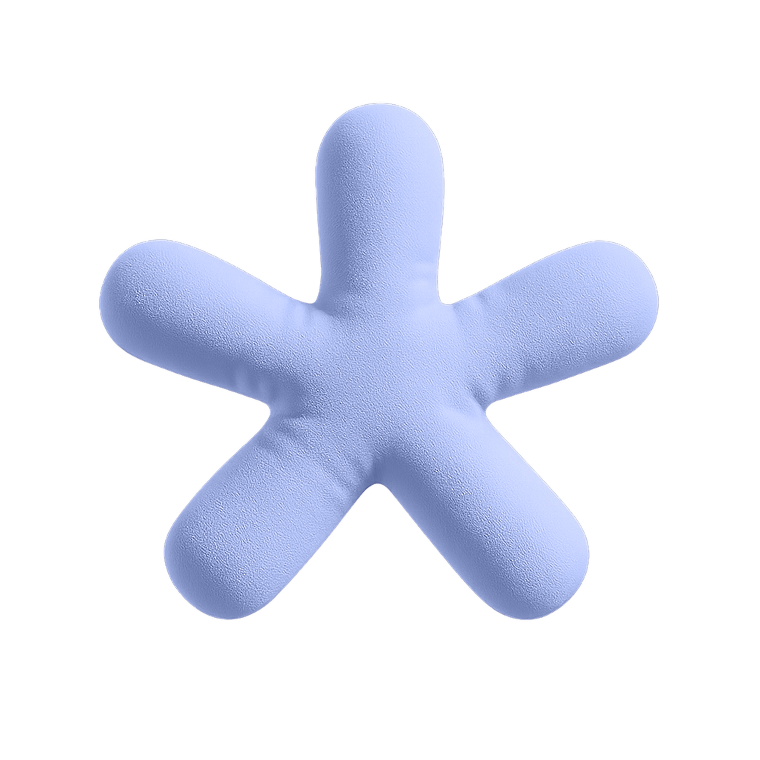
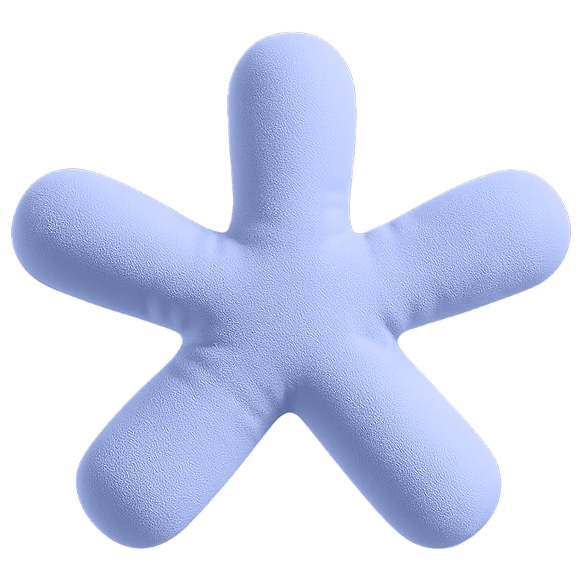
добавлена анимация на главной

Changed region(s): [[0.0, 0.031, 0.9931, 0.9621]]

diff --git a/src/components/section/Services.tsx b/src/components/section/Services.tsx
@@ -45,7 +45,7 @@ export default function Services() {
             whileInView="visible"
             viewport={viewportOptions}
             id="services"
-            className=" relative z-10 mt-[8.5vw]"
+            className=" relative z-10 mt-[8.5vw] "
         >
             <motion.h2 variants={slideInFromLeft(0)}>Дополнительные услуги</motion.h2>
             <div className=" flex flex-col gap-5">
@@ -92,15 +92,15 @@ export default function Services() {
                             variants={slideInFromRight(0.4)}
                             animate={floatAnimation(40)}
                             whileHover={{ scale: 1.1, transition: { duration: 0.3 } }}
-                            className=" absolute -top-[10%] left-[10%] w-65 h-65 transform -rotate-28"
+                            className=" absolute -top-[10%] left-[10%] w-52 h-52 transform -rotate-28"
                         >
                             <Image src="/img/cross.png" fill alt="Крестик маленький" />
                         </motion.div>
                         <motion.div
                             variants={slideInFromRight(0.8)}
-                            animate={spinAnimation(100)}
+                            animate={floatAnimation(100)}
                             whileHover={{ scale: 1.1, transition: { duration: 0.3 } }}
-                            className=" absolute -bottom-[20%] right-0 w-95 h-95 transform"
+                            className=" absolute -bottom-[20%] right-[10%] w-80 h-80 transform"
                         >
                             <Image src="/img/cross.png" fill alt="Крестик" />
                         </motion.div>

diff --git a/src/components/section/Question.tsx b/src/components/section/Question.tsx
@@ -109,9 +109,9 @@ export default function Question() {
                             variants={slideInFromRight(0.4)}
                             animate={floatAnimation(40)}
                             whileHover={{ scale: 1.1, transition: { duration: 0.3 } }}
-                            className=" absolute -top-[60%] right-0 w-150 h-150 transform pointer-events-none"
+                            className=" absolute -top-[60%] right-[10%] w-100 h-100 transform pointer-events-none"
                         >
-                            <Image src="/img/dog.png" fill alt="Крестик маленький" />
+                            <Image src="/img/dog.png" fill alt="Собачка" />
                         </motion.div>
                         <motion.div
                             variants={slideInFromRight(0.8)}
@@ -119,7 +119,7 @@ export default function Question() {
                             whileHover={{ scale: 1.1, transition: { duration: 0.3 } }}
                             className=" absolute top-[50%] right-[20%] w-80 h-80 transform pointer-events-none"
                         >
-                            <Image src="/img/arrow.png" fill alt="Крестик" />
+                            <Image src="/img/arrow.png" fill alt="Стрелочка" />
                         </motion.div>
                     </div>
                 </div>

diff --git a/src/components/section/NewHero.tsx b/src/components/section/NewHero.tsx
@@ -62,7 +62,7 @@ export default function NewHero() {
                             </div>
                         </div>
                     </motion.div>
-                    <div className="col-start-7 col-span-6 z-30 relative">
+                    <div className="col-start-7 col-span-6 z-30 relative pointer-events-none">
                         <motion.div
                             variants={slideInFromRight(0.6)}
                             animate={pulseAnimation(40)}
@@ -77,7 +77,7 @@ export default function NewHero() {
                         </motion.div>
                         <motion.div
                             variants={slideInFromRight(1)}
-                            animate={spinAnimation(200)}
+                            animate={pulseAnimation(60)}
                             className="absolute top-0 left-3/6 w-[17vw] h-[17vw]"
                         >
                             <Image src="/img/ps-icon-3d.png" fill alt="Фотошоп" />

diff --git a/src/components/section/Price.tsx b/src/components/section/Price.tsx
@@ -76,7 +76,6 @@ export default function Price() {
             variants={containerDelay}
             initial="hidden"
             whileInView="visible"
-            viewport={viewportOptions}
             className=" relative z-10 mt-[8.5vw]"
         >
             <motion.h2 variants={slideInFromLeft(0)}>Стоимость</motion.h2>
